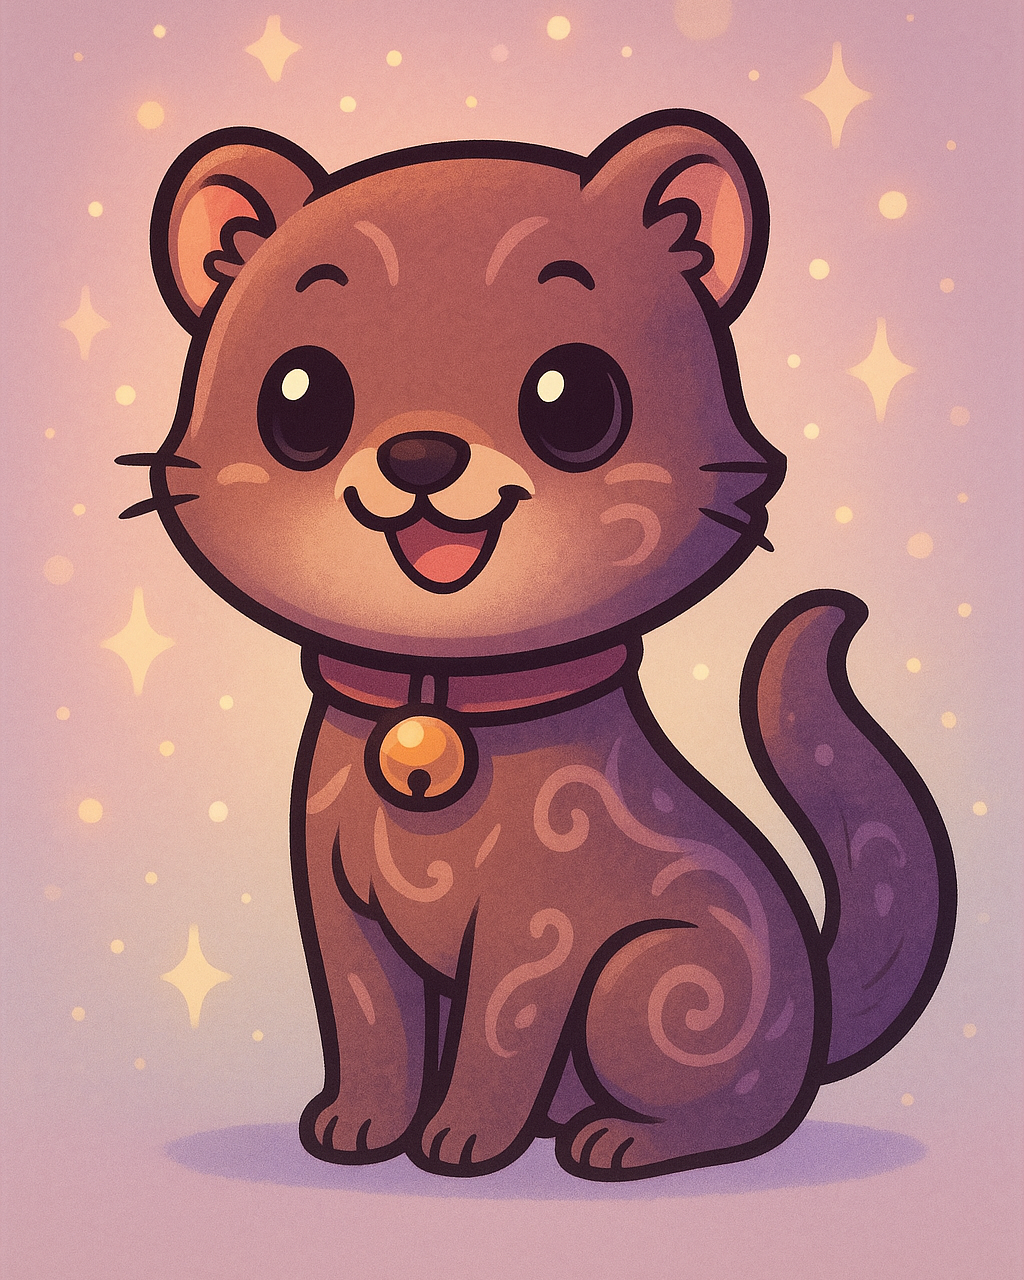
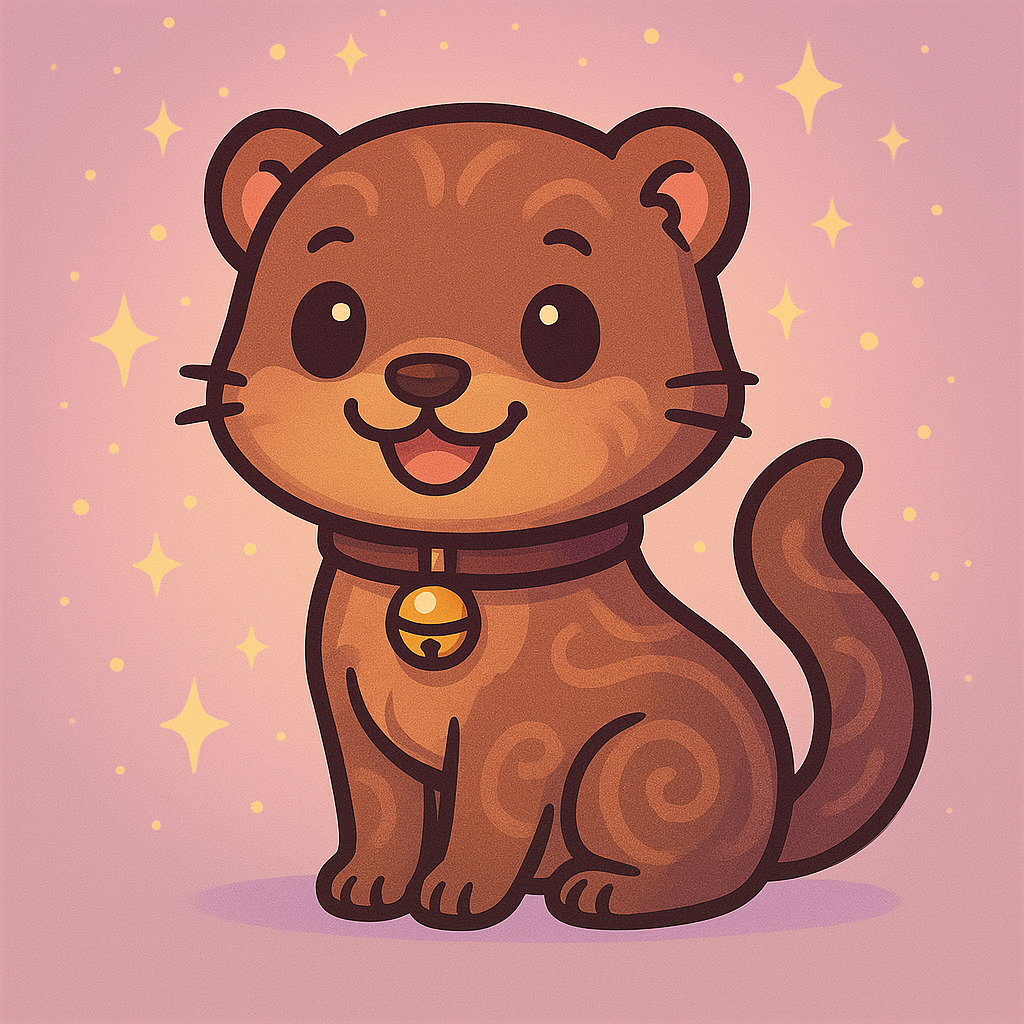
Typo fixed and square neko image.

diff --git a/src/components/GameUI.tsx b/src/components/GameUI.tsx
@@ -172,8 +172,8 @@ const GameUI: React.FC<GameUIProps> = ({ apiSettingsSet }) => {
       console.log("Parsed response:", parsedResponse);
       if (!parsedResponse) {
         console.log("Invalid response from LLM, retrying...");
-        const retryMesage = `<system>Your most recent response was invalid. Retry replying to the user. Take extra care with your xml syntax.</system> User message to reply to: ${msgToSend}`;
-        response = await chatModelRef.current.sendMessage(retryMesage);
+        const retryMessage = `<system>Your most recent response was invalid. Retry replying to the user. Take extra care with your xml syntax.</system> User message to reply to: ${msgToSend}`;
+        response = await chatModelRef.current.sendMessage(retryMessage);
         parsedResponse = parseLLMResponse(response.content as string);
         if (!parsedResponse) {
           throw new Error("Invalid response from LLM after retry.");
